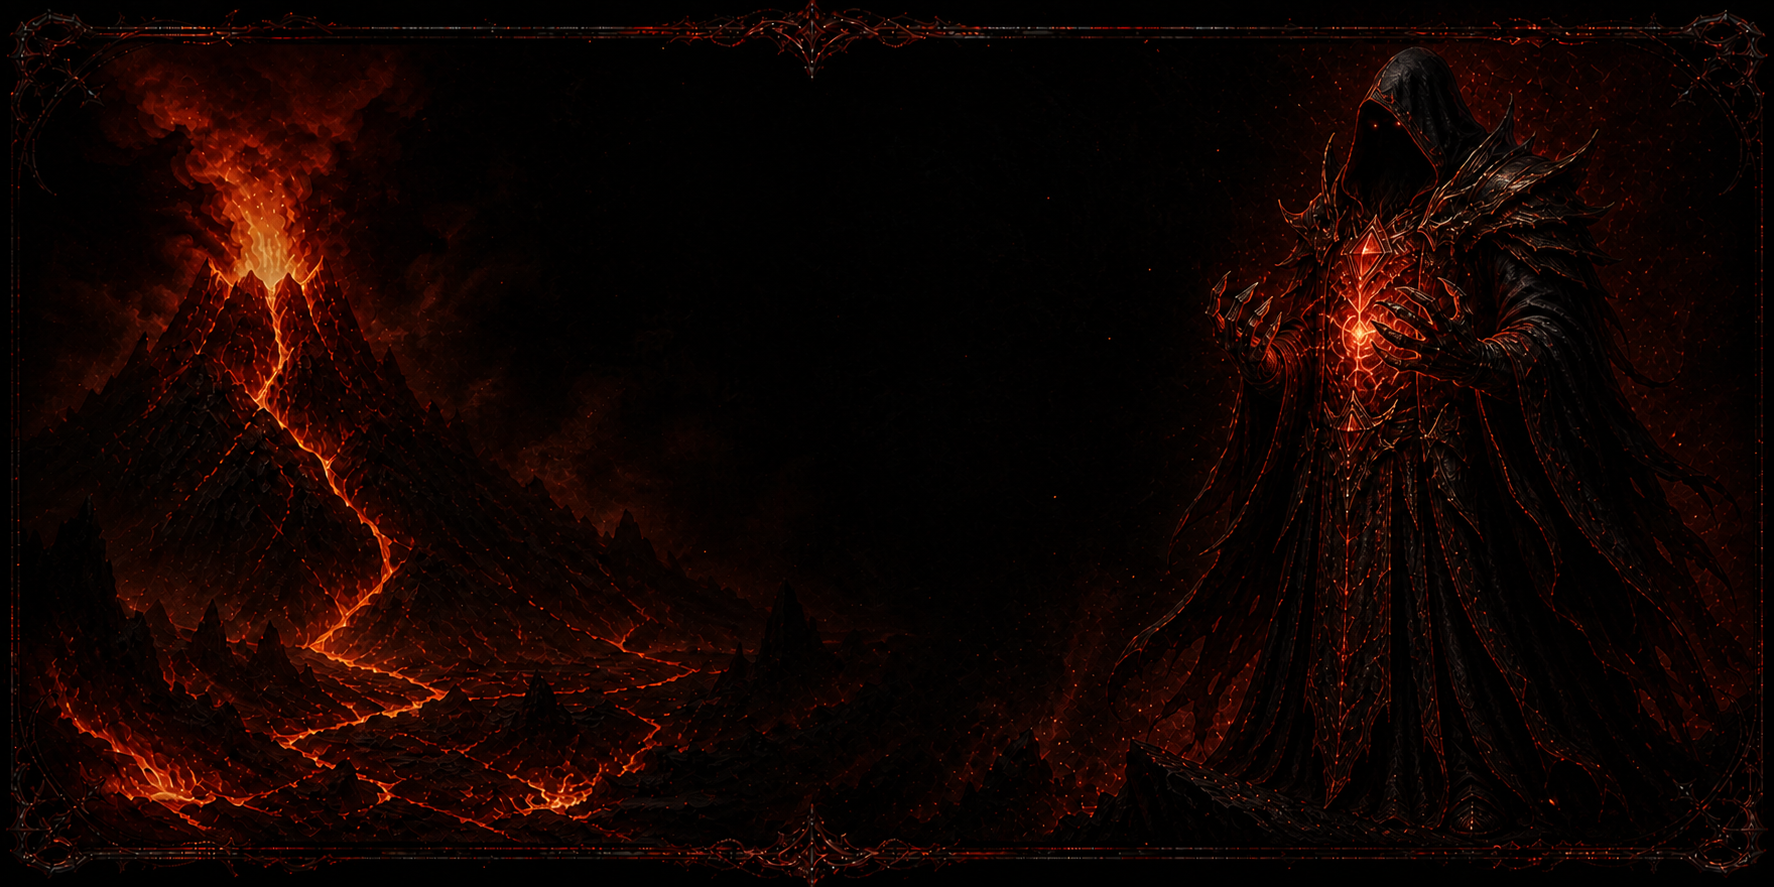
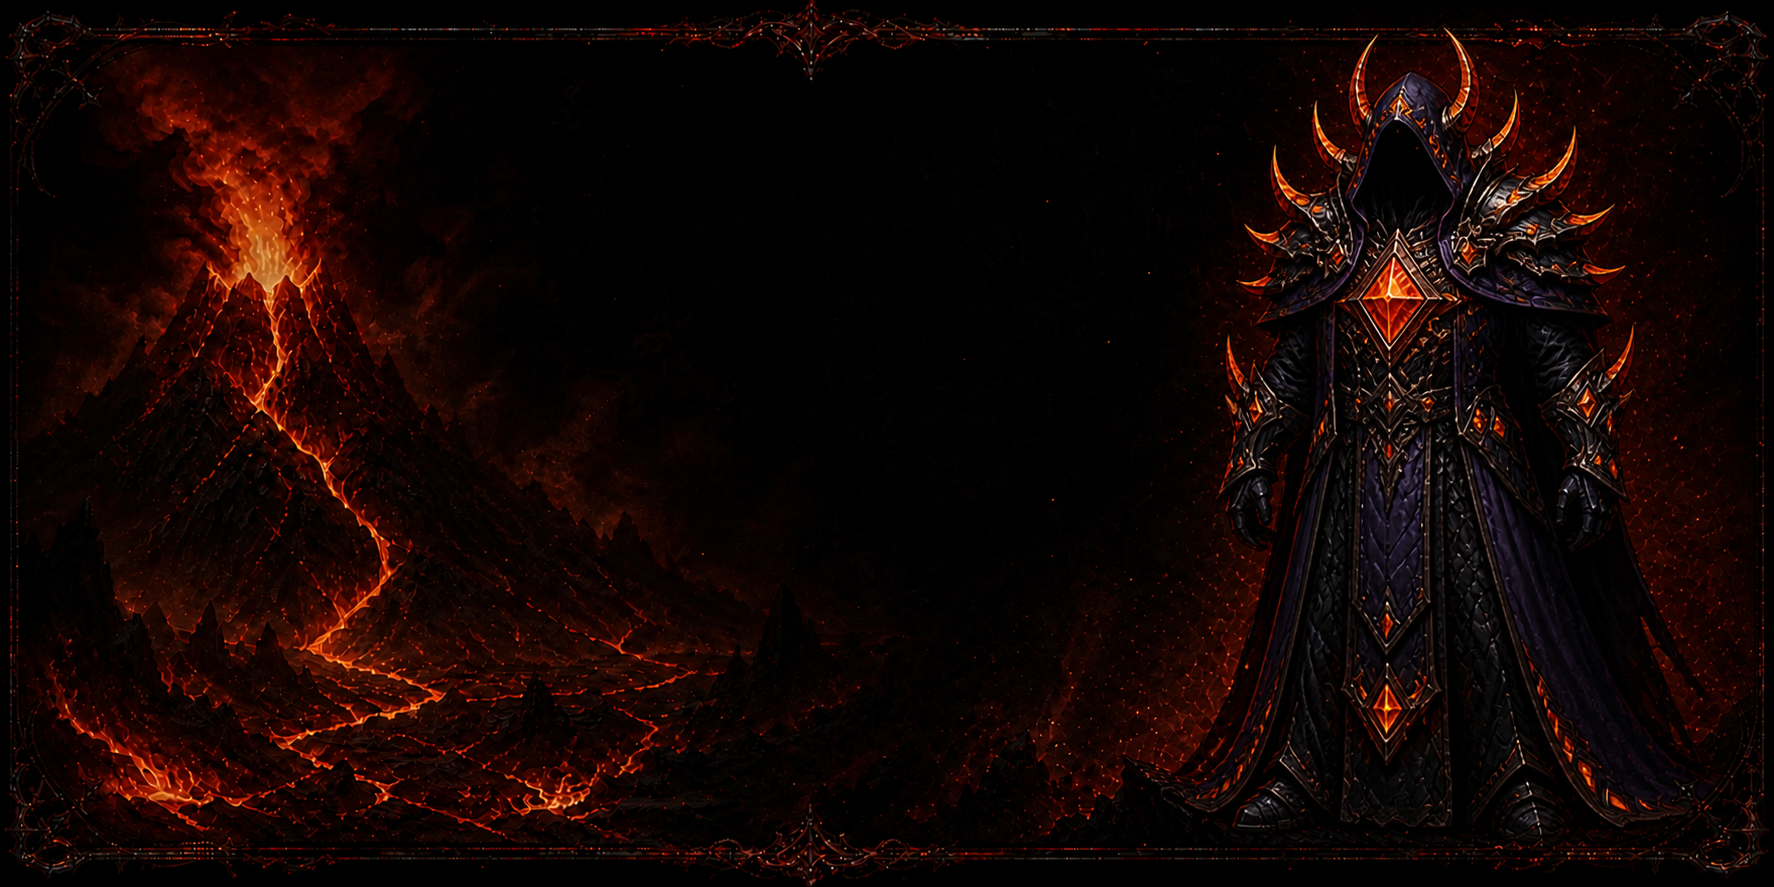
Match Archmage to Margonem style

diff --git a/Margonem-Crimson-Character-Backgrounds.user.js b/Margonem-Crimson-Character-Backgrounds.user.js
@@ -1,7 +1,7 @@
 // ==UserScript==
 // @name         Margonem Crimson - Tła postaci
 // @namespace    https://github.com/bSlawek-03/Margonem-Crimson
-// @version      4.9.0
+// @version      5.0.0
 // @description  Panel do przypisywania RAW tła do postaci Margonem.
 // @author       Slawek
 // @match        https://*.margonem.pl/*
@@ -15,7 +15,7 @@
 (() => {
   'use strict';
 
-  const STORAGE_KEY = 'margonem-crimson-character-backgrounds-v11';
+  const STORAGE_KEY = 'margonem-crimson-character-backgrounds-v12';
 
   const characters = [
     { key: 'fourhead', label: 'Fourhead', level: '114', slot: 1 },
@@ -29,12 +29,12 @@
   const knownCharacters = characters.map((item) => item.key);
 
   const defaultUrls = {
-    fourhead: 'https://raw.githubusercontent.com/bSlawek-03/Margonem-Crimson/main/assets/titan-renegat-baulus-background.png?v=9',
-    twohead: 'https://raw.githubusercontent.com/bSlawek-03/Margonem-Crimson/main/assets/crimson-archdemon-background.png?v=9',
-    onehawk: 'https://raw.githubusercontent.com/bSlawek-03/Margonem-Crimson/main/assets/titan-versus-zoons-background.png?v=9',
-    threebane: 'https://raw.githubusercontent.com/bSlawek-03/Margonem-Crimson/main/assets/titan-lowcz-driady-background.png?v=9',
-    fivefang: 'https://raw.githubusercontent.com/bSlawek-03/Margonem-Crimson/main/assets/titan-tezcatlipoca-background.png?v=9',
-    'po prostu slawek': 'https://raw.githubusercontent.com/bSlawek-03/Margonem-Crimson/main/assets/titan-ice-king-background.png?v=9'
+    fourhead: 'https://raw.githubusercontent.com/bSlawek-03/Margonem-Crimson/main/assets/titan-renegat-baulus-background.png?v=10',
+    twohead: 'https://raw.githubusercontent.com/bSlawek-03/Margonem-Crimson/main/assets/crimson-archdemon-background.png?v=10',
+    onehawk: 'https://raw.githubusercontent.com/bSlawek-03/Margonem-Crimson/main/assets/titan-versus-zoons-background.png?v=10',
+    threebane: 'https://raw.githubusercontent.com/bSlawek-03/Margonem-Crimson/main/assets/titan-lowcz-driady-background.png?v=10',
+    fivefang: 'https://raw.githubusercontent.com/bSlawek-03/Margonem-Crimson/main/assets/titan-tezcatlipoca-background.png?v=10',
+    'po prostu slawek': 'https://raw.githubusercontent.com/bSlawek-03/Margonem-Crimson/main/assets/titan-ice-king-background.png?v=10'
   };
 
   const defaults = Object.fromEntries(characters.map((item) => [item.key, {
